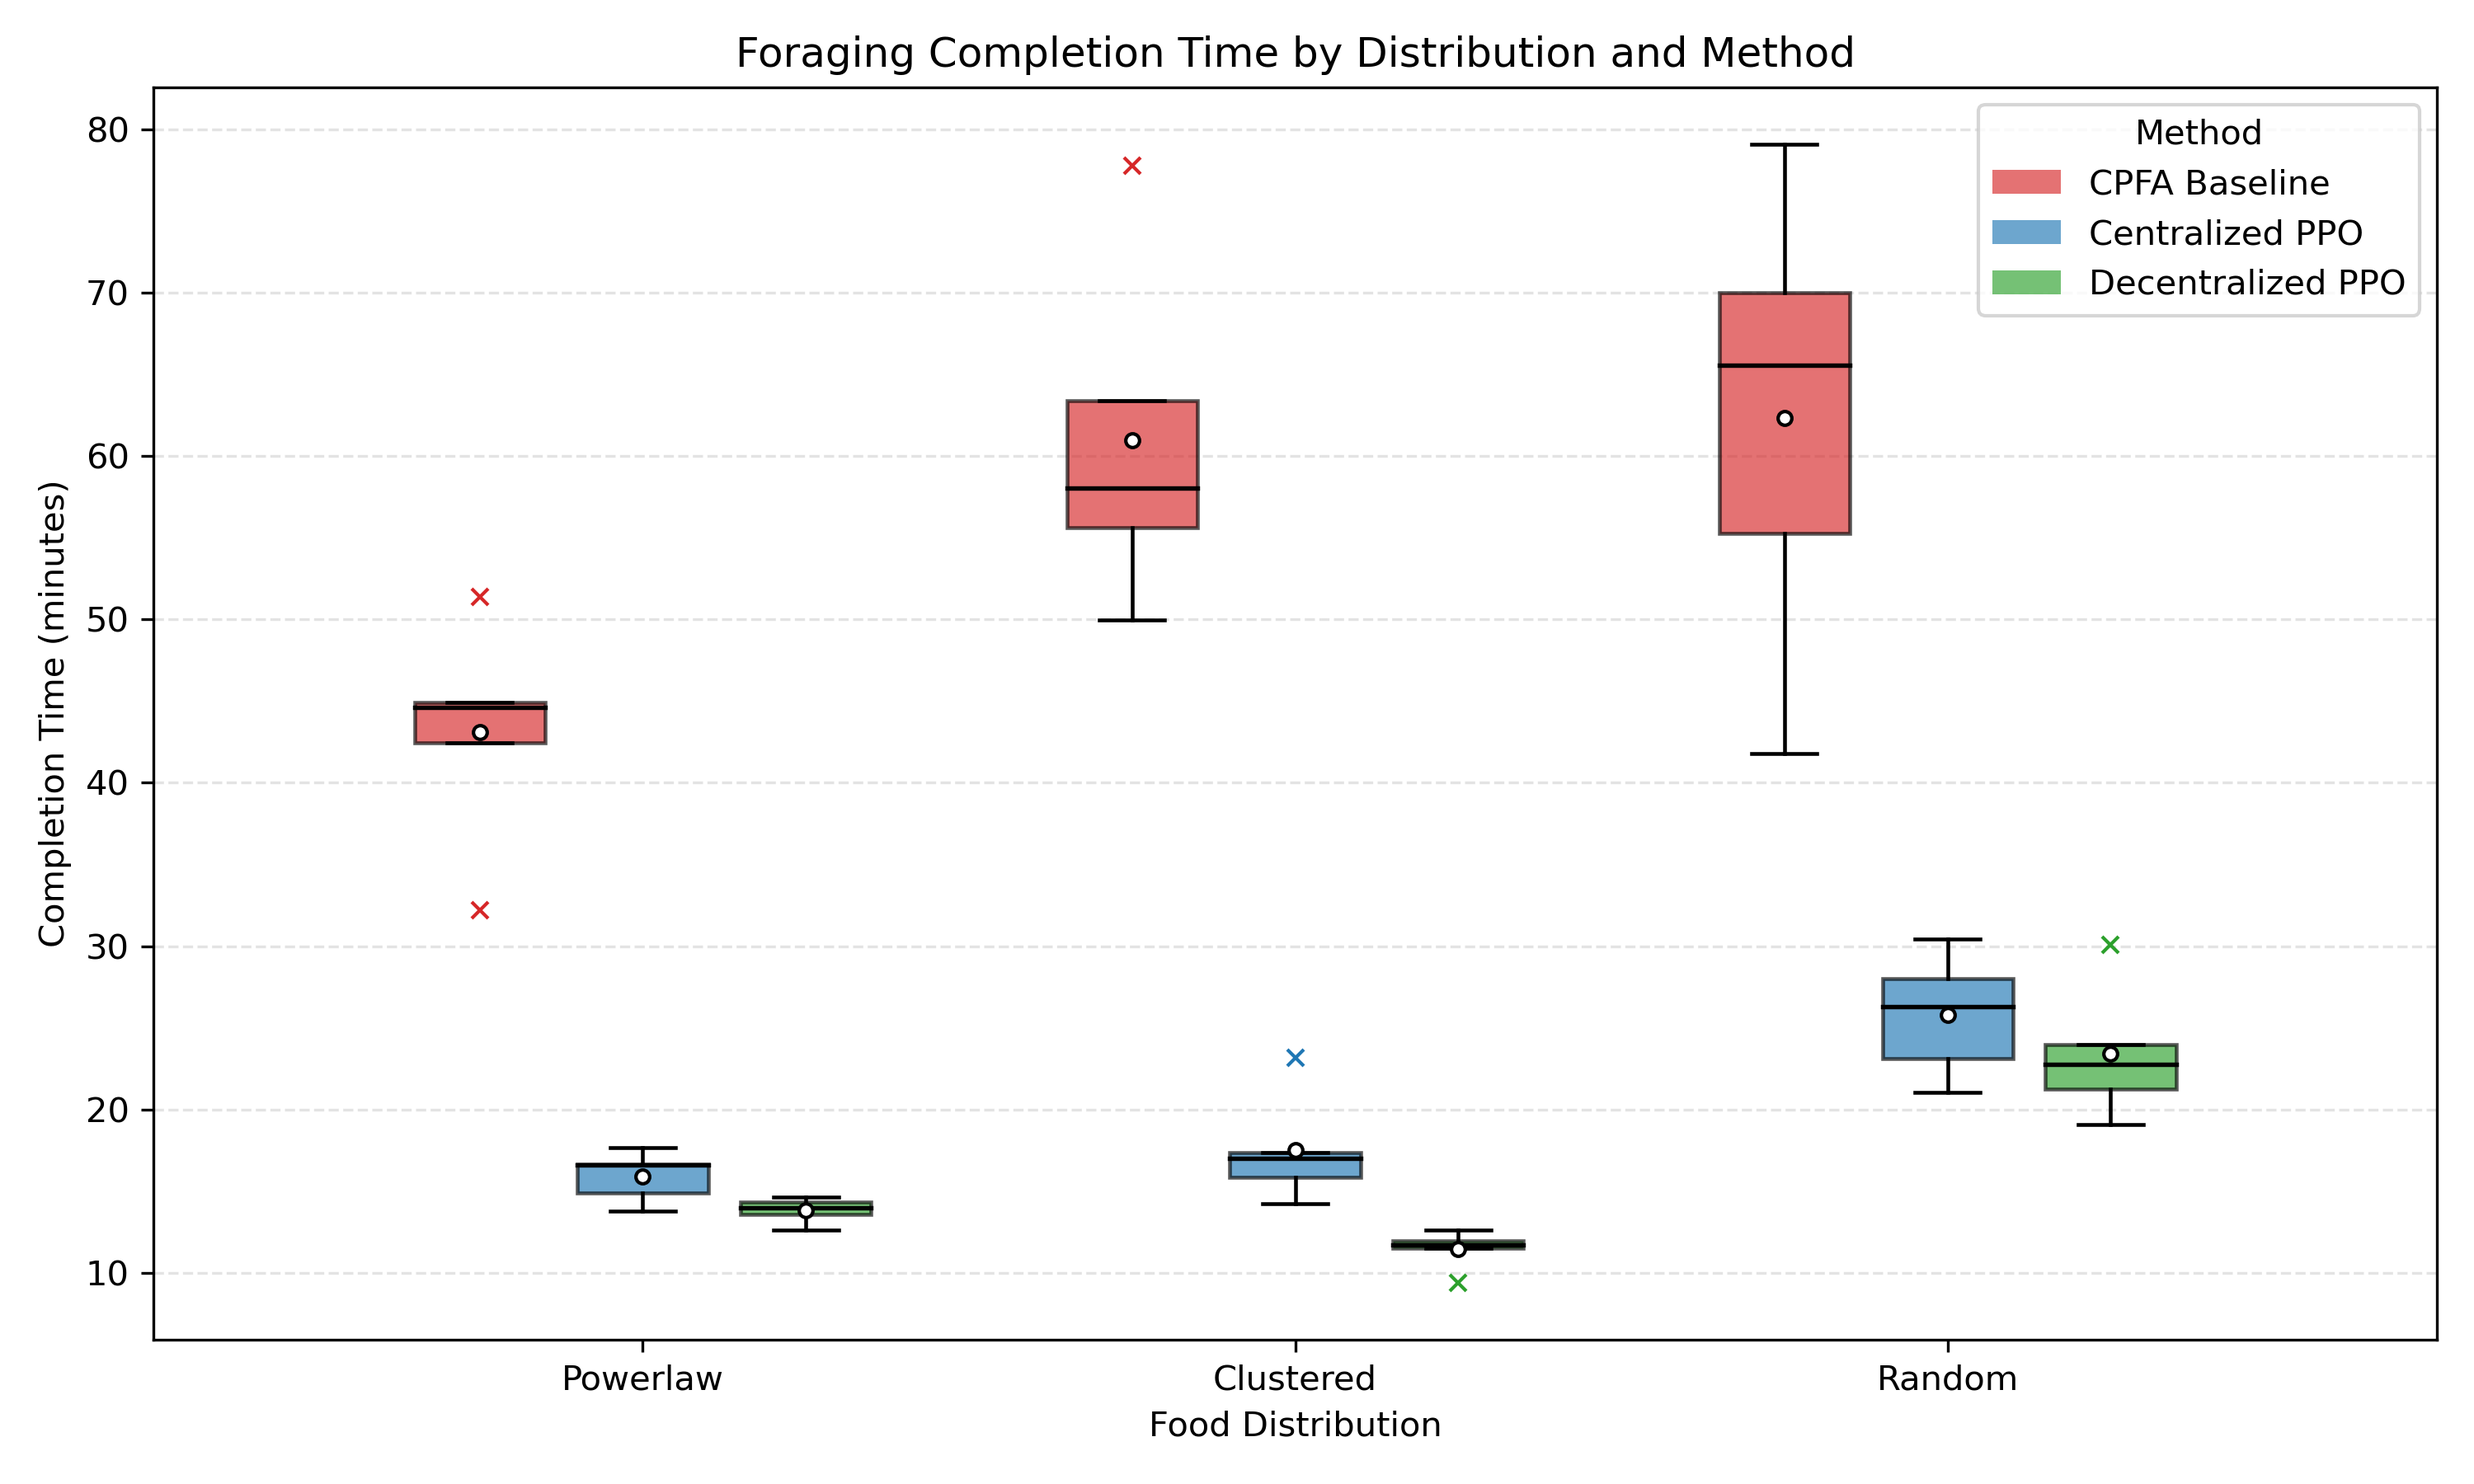
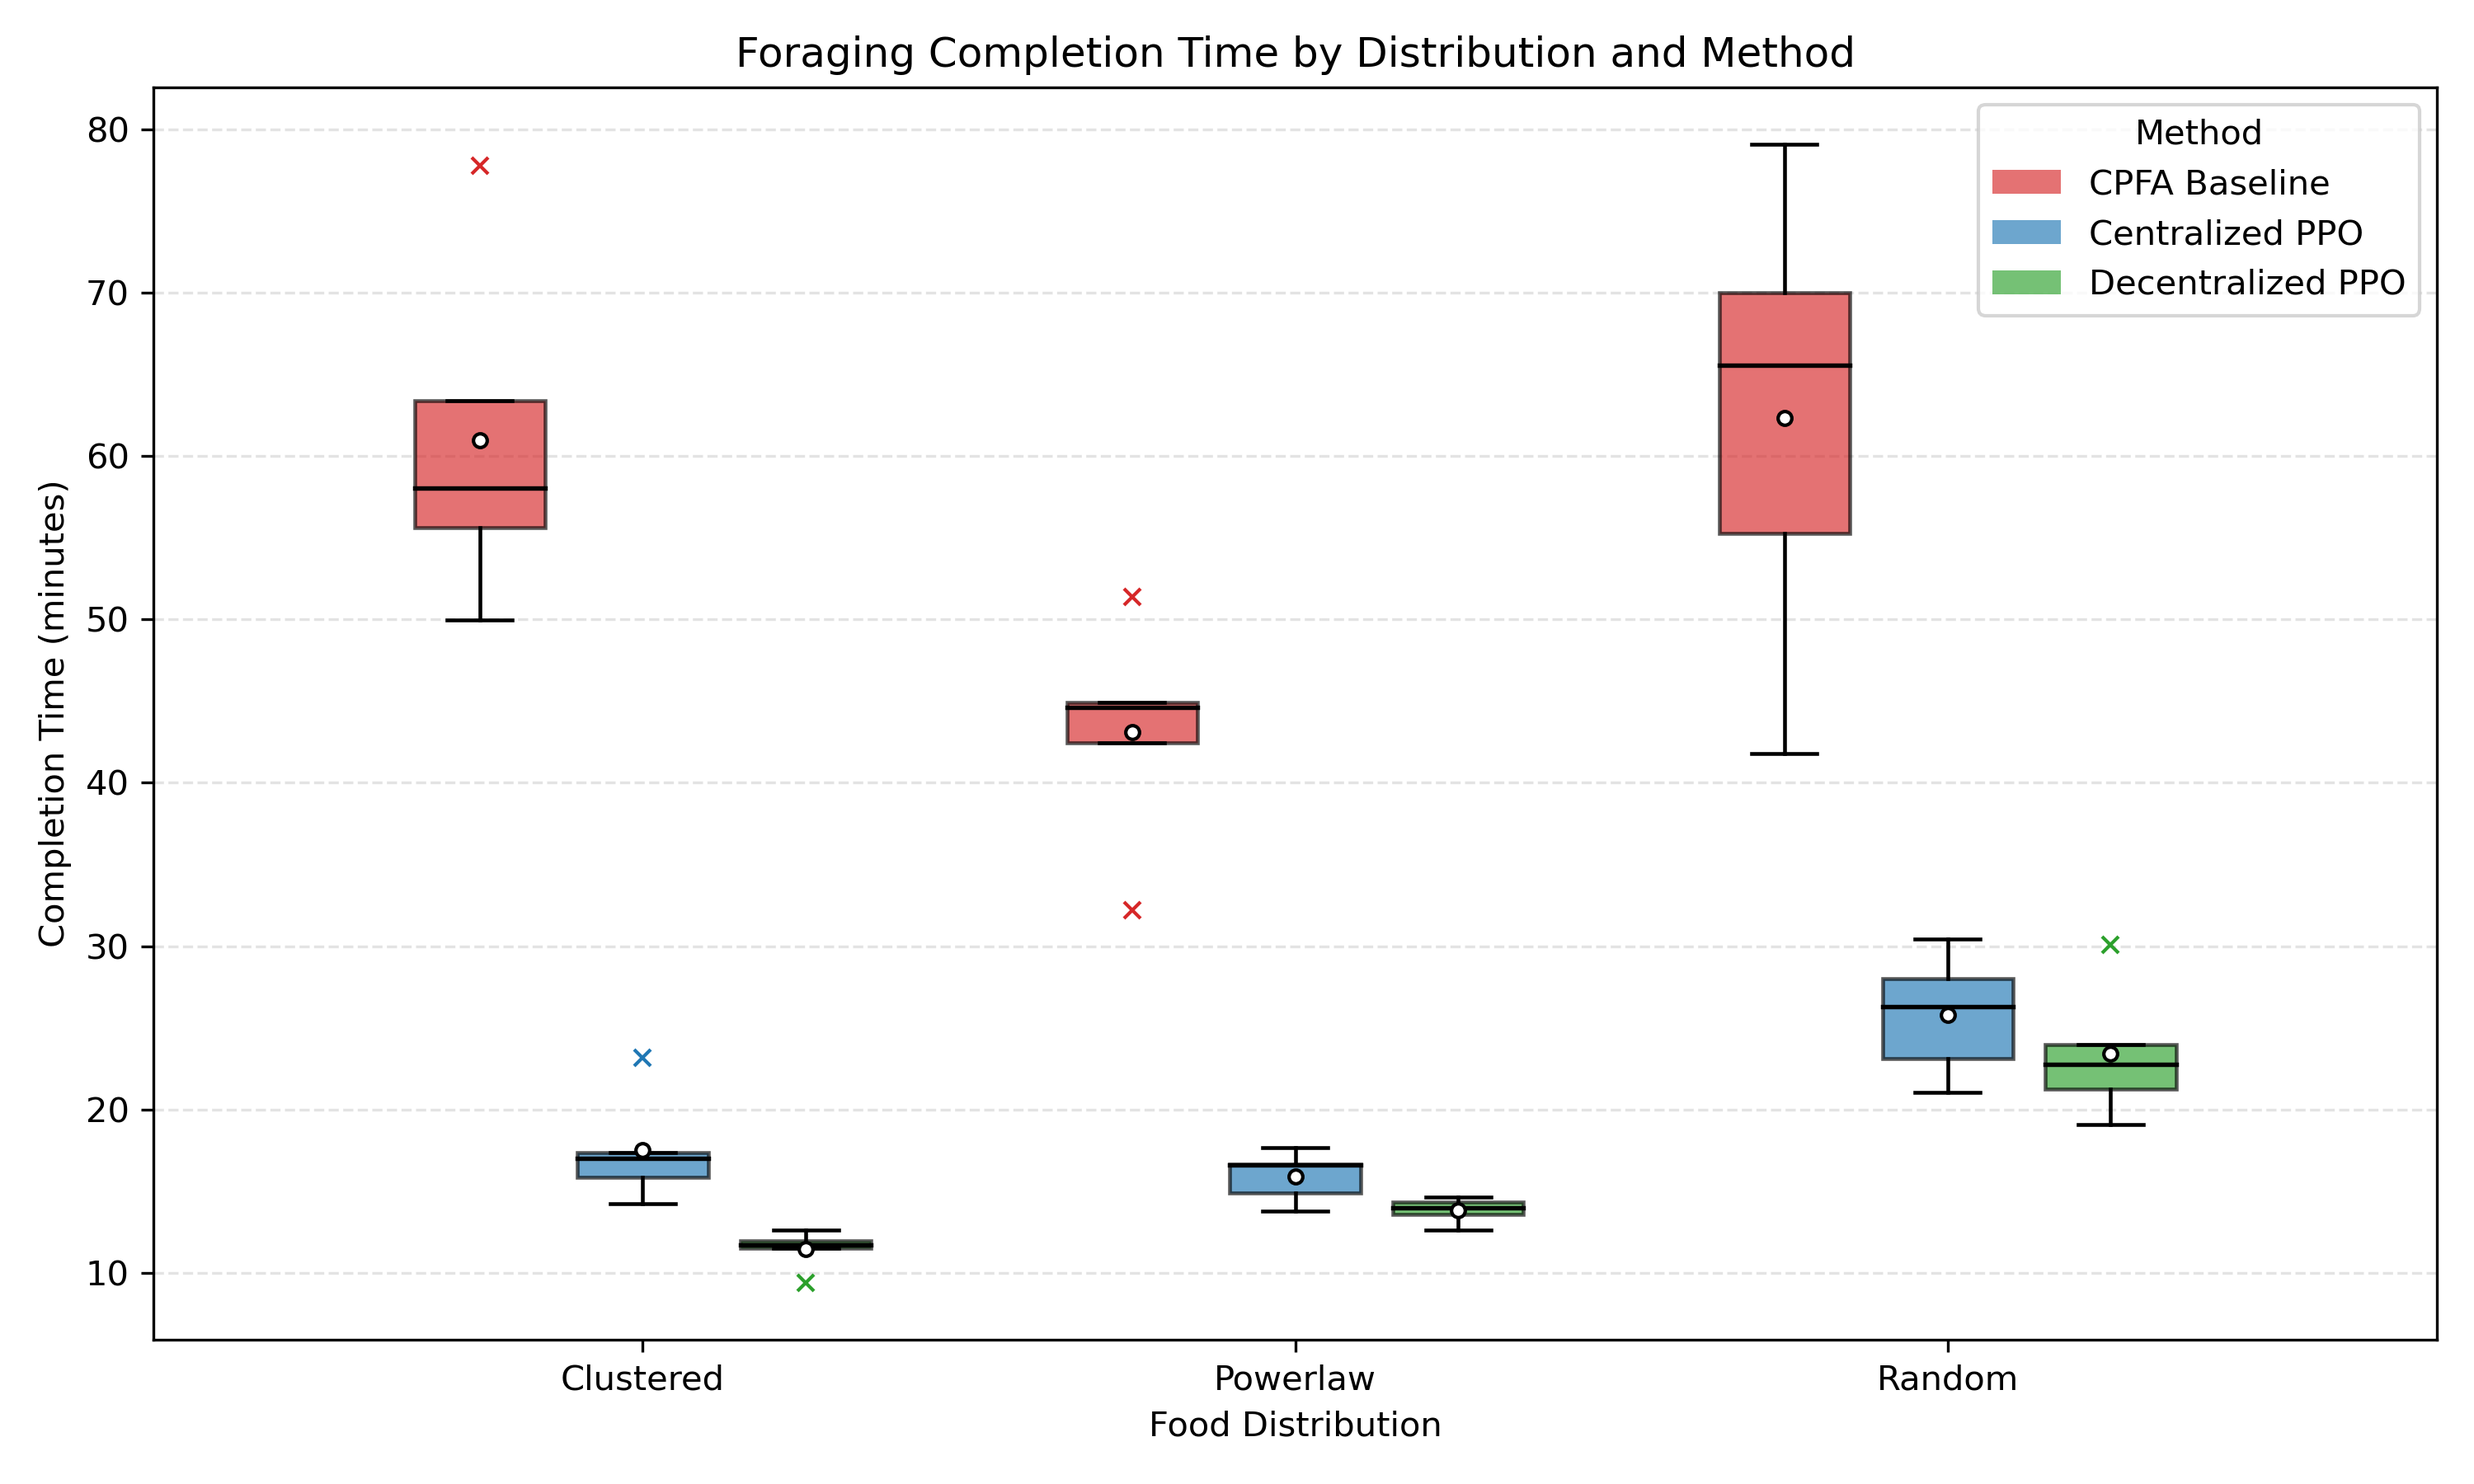
experiment 1 box plot

diff --git a/experiment1_boxplot.py b/experiment1_boxplot.py
@@ -1,0 +1,183 @@
+#!/usr/bin/env python3
+"""Plot grouped deposit box plots for experiment 1 foraging results."""
+
+import argparse
+import csv
+import os
+import re
+import tempfile
+from collections import defaultdict
+from pathlib import Path
+
+os.environ.setdefault(
+    "MPLCONFIGDIR", str(Path(tempfile.gettempdir()) / "matplotlib-cache")
+)
+
+import matplotlib.pyplot as plt
+from matplotlib.patches import Patch
+
+
+METHODS = ["cpfa_baseline", "centralized_ppo", "decentralized_ppo"]
+
+METHOD_LABELS = {
+    "cpfa_baseline": "Baseline",
+    "centralized_ppo": "Centralized PPO",
+    "decentralized_ppo": "Decentralized PPO",
+}
+
+METHOD_COLORS = {
+    "cpfa_baseline": "#d62728",  # red
+    "centralized_ppo": "#1f77b4",  # blue
+    "decentralized_ppo": "#2ca02c",  # green
+}
+
+
+def arena_sort_key(arena):
+    match = re.match(r"^(\d+)x(\d+)$", arena)
+    if match:
+        return int(match.group(1)), int(match.group(2))
+    return arena
+
+
+def format_time(minutes):
+    value = float(minutes)
+    if value.is_integer():
+        return str(int(value))
+    return f"{value:g}"
+
+
+def load_deposits(input_dir):
+    data = defaultdict(list)
+    times_by_arena = {}
+    csv_paths = sorted(input_dir.glob("foraging_*.csv"))
+
+    if not csv_paths:
+        raise FileNotFoundError(f"No foraging_*.csv files found in {input_dir}")
+
+    for csv_path in csv_paths:
+        with csv_path.open(newline="") as file:
+            reader = csv.DictReader(file)
+            required = {"method", "arena", "foraging_time_min", "deposits"}
+            missing = required - set(reader.fieldnames or [])
+            if missing:
+                raise ValueError(
+                    f"{csv_path} is missing required columns: {sorted(missing)}"
+                )
+
+            for row in reader:
+                method = row["method"].strip()
+                if method not in METHODS:
+                    continue
+
+                arena = row["arena"].strip()
+                time_min = format_time(row["foraging_time_min"])
+                deposit_count = float(row["deposits"])
+
+                data[(arena, method)].append(deposit_count)
+                times_by_arena.setdefault(arena, time_min)
+
+    return data, times_by_arena
+
+
+def plot_boxplots(data, times_by_arena, output_path):
+    arenas = sorted(times_by_arena, key=arena_sort_key)
+    if not arenas:
+        raise ValueError("No experiment 1 rows found for the configured methods.")
+
+    missing = [
+        (arena, method)
+        for arena in arenas
+        for method in METHODS
+        if not data.get((arena, method))
+    ]
+    if missing:
+        missing_text = ", ".join(
+            f"{arena} / {METHOD_LABELS[method]}" for arena, method in missing
+        )
+        raise ValueError(f"No deposit data found for: {missing_text}")
+
+    fig, ax = plt.subplots(figsize=(11, 6))
+
+    group_centers = list(range(1, len(arenas) + 1))
+    offsets = [-0.25, 0.0, 0.25]
+    width = 0.2
+
+    for method_index, method in enumerate(METHODS):
+        series = [data[(arena, method)] for arena in arenas]
+        positions = [
+            center + offsets[method_index]
+            for center in group_centers
+        ]
+
+        box = ax.boxplot(
+            series,
+            positions=positions,
+            widths=width,
+            patch_artist=True,
+            showmeans=True,
+            meanprops={
+                "marker": "o",
+                "markerfacecolor": "white",
+                "markeredgecolor": "black",
+                "markersize": 4,
+            },
+            medianprops={"color": "black", "linewidth": 1.3},
+            boxprops={"linewidth": 1.1},
+            whiskerprops={"linewidth": 1.1},
+            capprops={"linewidth": 1.1},
+            flierprops={
+                "marker": "x",
+                "markeredgecolor": METHOD_COLORS[method],
+                "markersize": 5,
+            },
+        )
+
+        for patch in box["boxes"]:
+            patch.set_facecolor(METHOD_COLORS[method])
+            patch.set_alpha(0.65)
+
+    ax.set_title("Experiment 1 Deposits by Arena and Method")
+    ax.set_xlabel("Arena Size and Foraging Time")
+    ax.set_ylabel("Deposits")
+    ax.set_xticks(group_centers)
+    ax.set_xticklabels(
+        [f"({arena}, {times_by_arena[arena]} min)" for arena in arenas]
+    )
+    ax.grid(axis="y", linestyle="--", alpha=0.35)
+
+    handles = [
+        Patch(facecolor=METHOD_COLORS[method], alpha=0.65, label=METHOD_LABELS[method])
+        for method in METHODS
+    ]
+    ax.legend(handles=handles, title="Method")
+
+    fig.tight_layout()
+    output_path.parent.mkdir(parents=True, exist_ok=True)
+    fig.savefig(output_path, dpi=300)
+    print(f"Saved plot to {output_path}")
+
+
+def main():
+    parser = argparse.ArgumentParser(
+        description="Create side-by-side deposit box plots for experiment 1."
+    )
+    parser.add_argument(
+        "--input-dir",
+        type=Path,
+        default=Path("results/experiment1"),
+        help="Directory containing experiment 1 foraging CSV files.",
+    )
+    parser.add_argument(
+        "--output",
+        type=Path,
+        default=Path("results/experiment1/experiment1_deposits_boxplot.png"),
+        help="Output image path.",
+    )
+    args = parser.parse_args()
+
+    data, times_by_arena = load_deposits(args.input_dir)
+    plot_boxplots(data, times_by_arena, args.output)
+
+
+if __name__ == "__main__":
+    main()

diff --git a/plot_completion_boxplots.py b/plot_completion_boxplots.py
@@ -16,7 +16,7 @@ import matplotlib.pyplot as plt
 from matplotlib.patches import Patch
 
 
-DISTRIBUTIONS = ["powerlaw", "clustered", "random"]
+DISTRIBUTIONS = ["clustered", "powerlaw", "random"]
 METHODS = ["cpfa_baseline", "centralized_ppo", "decentralized"]
 
 DISTRIBUTION_LABELS = {
